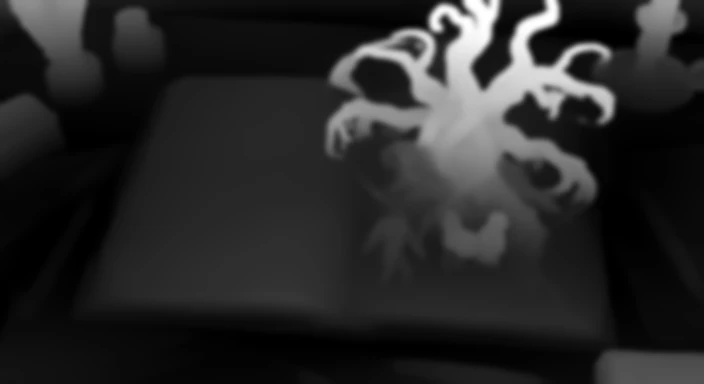
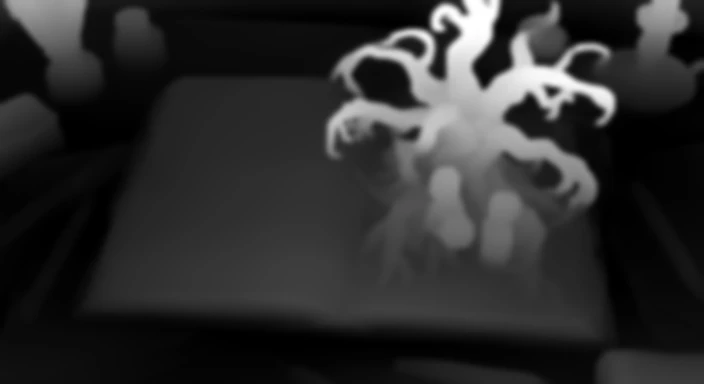
Upside-Down World p14: new laughing picture; stare -> smile -> giggling laugh fit -> calm, gentle branch sway, warm sun glow, dust, text moved under the sketch, 2x upscale
Claude-Session: https://claude.ai/code/session_01BFtifSTdmWYaAK88ECs5PE

diff --git a/books/upside-down-world/sprite.js b/books/upside-down-world/sprite.js
@@ -1,2 +1,2 @@
 /* flying objects drawn over a still page: img = transparent sprite, rs = ball radius in the sprite, path = [x,y,radius] per frame at 24 fps in 1408x768 picture pixels */
-window.SPRITES={p01:{img:"img/p01-ball.webp",size:260,rs:104.5,path:[[951.0,390.0,18.5],[946.4,377.6,21.9],[944.8,373.2,22.6],[941.8,364.8,24.4],[938.6,356.8,26.0],[935.2,349.1,27.6],[931.6,342.1,29.2],[927.9,335.5,30.7],[923.8,329.1,32.0],[919.7,322.8,33.5],[915.7,316.9,34.9],[911.8,311.1,36.2],[907.8,305.5,37.6],[903.9,300.1,38.9],[899.8,295.1,40.2],[895.8,290.0,41.2],[891.4,285.1,42.2],[887.2,280.3,43.2],[882.9,275.7,44.3],[878.9,271.0,45.3],[874.9,266.6,46.5],[871.2,262.1,47.8],[867.5,257.7,49.1],[863.9,253.4,50.5],[860.2,249.1,51.8],[856.2,244.7,53.0],[852.4,240.6,54.2],[848.3,236.6,55.3],[843.9,232.6,56.5],[839.6,228.6,57.6],[835.4,224.8,58.6],[830.9,221.0,59.7],[826.3,217.3,60.7],[821.9,213.7,61.5],[817.4,210.1,62.4],[812.8,206.8,63.6],[808.1,203.5,64.5],[803.4,200.3,65.6],[798.8,196.9,66.6],[794.1,193.7,67.7],[789.4,190.4,68.8],[784.8,187.1,70.0],[780.1,183.8,71.3],[775.3,180.6,72.7],[770.3,177.4,74.1],[765.1,174.3,75.5],[759.8,171.1,77.0],[754.7,167.8,78.5],[749.2,164.6,80.0],[743.7,161.4,81.3],[738.1,157.9,82.7],[732.6,154.6,84.0]]},p02:{img:"img/p01-ball.webp",size:260,rs:104.5,kind:"lob",from:[1008,538,9],to:[1040,212,4.2],apex:170,rig:[{img:"img/p02-leg.webp",box:[960,515,60,60],pivot:[987,531],depth:[988,545],motion:"leg"}]},p03:{rig:[{img:"img/p03-leo.webp",box:[906,462,52,56],pivot:[932,504],depth:[932,495],motion:"headL"},{img:"img/p03-sam.webp",box:[946,475,52,56],pivot:[972,515],depth:[972,505],motion:"headS"}]},p03s:{img:"img/p01-ball.webp",size:260,rs:104.5,kind:"hops",ground:true,rest:1.6,start:[920.3,488.6,14.5],du:[1.25,.42,.3],grow:.5,bend:-62,hops:[[896,197,9.5,175],[892,187,8.5,15],[879,181,7.5,6]],to:[879,181,7.5]},p03t:{rig:[{img:"img/p03-turn.webp",box:[888,468,114,140],pivot:[945,538],depth:[945,540],motion:"turn"}]},p05p:{rig:[{img:"img/p05-point.webp",box:[884,452,118,156],pivot:[943,530],depth:[943,540],motion:"point2"}]},p06k:{rig:[{img:"img/p06-k0.webp",box:[878,423,80,114],pivot:[918.4,478.3],depth:[918.4,508.3],motion:"kf0"},{img:"img/p06-k1.webp",box:[866,417,97,111],pivot:[915.3,473.5],depth:[915.3,503.5],motion:"kf1"},{img:"img/p06-k2.webp",box:[874,472,99,116],pivot:[921.4,531.8],depth:[921.4,561.8],motion:"kf2"}]},p07k:{rig:[{img:"img/p07-kids.webp",box:[859.6,324.2,83.1,120.1],pivot:[910,404],depth:[910,395],motion:"walk7"}]},p08k:{rig:[{img:"img/p08-k1.webp",box:[750,272,339.5,323],pivot:[920,590],depth:[920,560],motion:"p8a"},{img:"img/p08-k2.webp",box:[781,272,283.5,323],pivot:[920,590],depth:[920,560],motion:"p8b"}]},p09k:{rig:[{img:"img/p09-wave.webp",box:[868,430,152,180],pivot:[944,520],depth:[944,540],motion:"p9"}]},p10k:{rig:[{img:"img/p10-kids.webp",box:[800,350,240,210],pivot:[920,455],depth:[920,470],motion:"stride"},{img:"img/p10-whale.webp",box:[640,30,550,380],pivot:[905,220],depth:[905,220],motion:"flip10"}]},p11k:{rig:[{img:"img/p10-kids.webp",box:[800,350,240,210],pivot:[920,455],depth:[920,470],motion:"stride"},{img:"img/p11-song.webp",box:[23,59,1272,491],pivot:[660,300],depth:[880,180],motion:"song11"}]},p12k:{rig:[{img:"img/p12-k1.webp",box:[810,340,250,260],pivot:[935,470],depth:[935,480],motion:"p12a"},{img:"img/p12-k2.webp",box:[810,340,250,260],pivot:[935,470],depth:[935,480],motion:"p12b"}]},p13k:{rig:[{img:"img/p13-gasp.webp",box:[920,350,140,140],pivot:[990,420],depth:[990,430],motion:"p13"}]}};
+window.SPRITES={p01:{img:"img/p01-ball.webp",size:260,rs:104.5,path:[[951.0,390.0,18.5],[946.4,377.6,21.9],[944.8,373.2,22.6],[941.8,364.8,24.4],[938.6,356.8,26.0],[935.2,349.1,27.6],[931.6,342.1,29.2],[927.9,335.5,30.7],[923.8,329.1,32.0],[919.7,322.8,33.5],[915.7,316.9,34.9],[911.8,311.1,36.2],[907.8,305.5,37.6],[903.9,300.1,38.9],[899.8,295.1,40.2],[895.8,290.0,41.2],[891.4,285.1,42.2],[887.2,280.3,43.2],[882.9,275.7,44.3],[878.9,271.0,45.3],[874.9,266.6,46.5],[871.2,262.1,47.8],[867.5,257.7,49.1],[863.9,253.4,50.5],[860.2,249.1,51.8],[856.2,244.7,53.0],[852.4,240.6,54.2],[848.3,236.6,55.3],[843.9,232.6,56.5],[839.6,228.6,57.6],[835.4,224.8,58.6],[830.9,221.0,59.7],[826.3,217.3,60.7],[821.9,213.7,61.5],[817.4,210.1,62.4],[812.8,206.8,63.6],[808.1,203.5,64.5],[803.4,200.3,65.6],[798.8,196.9,66.6],[794.1,193.7,67.7],[789.4,190.4,68.8],[784.8,187.1,70.0],[780.1,183.8,71.3],[775.3,180.6,72.7],[770.3,177.4,74.1],[765.1,174.3,75.5],[759.8,171.1,77.0],[754.7,167.8,78.5],[749.2,164.6,80.0],[743.7,161.4,81.3],[738.1,157.9,82.7],[732.6,154.6,84.0]]},p02:{img:"img/p01-ball.webp",size:260,rs:104.5,kind:"lob",from:[1008,538,9],to:[1040,212,4.2],apex:170,rig:[{img:"img/p02-leg.webp",box:[960,515,60,60],pivot:[987,531],depth:[988,545],motion:"leg"}]},p03:{rig:[{img:"img/p03-leo.webp",box:[906,462,52,56],pivot:[932,504],depth:[932,495],motion:"headL"},{img:"img/p03-sam.webp",box:[946,475,52,56],pivot:[972,515],depth:[972,505],motion:"headS"}]},p03s:{img:"img/p01-ball.webp",size:260,rs:104.5,kind:"hops",ground:true,rest:1.6,start:[920.3,488.6,14.5],du:[1.25,.42,.3],grow:.5,bend:-62,hops:[[896,197,9.5,175],[892,187,8.5,15],[879,181,7.5,6]],to:[879,181,7.5]},p03t:{rig:[{img:"img/p03-turn.webp",box:[888,468,114,140],pivot:[945,538],depth:[945,540],motion:"turn"}]},p05p:{rig:[{img:"img/p05-point.webp",box:[884,452,118,156],pivot:[943,530],depth:[943,540],motion:"point2"}]},p06k:{rig:[{img:"img/p06-k0.webp",box:[878,423,80,114],pivot:[918.4,478.3],depth:[918.4,508.3],motion:"kf0"},{img:"img/p06-k1.webp",box:[866,417,97,111],pivot:[915.3,473.5],depth:[915.3,503.5],motion:"kf1"},{img:"img/p06-k2.webp",box:[874,472,99,116],pivot:[921.4,531.8],depth:[921.4,561.8],motion:"kf2"}]},p07k:{rig:[{img:"img/p07-kids.webp",box:[859.6,324.2,83.1,120.1],pivot:[910,404],depth:[910,395],motion:"walk7"}]},p08k:{rig:[{img:"img/p08-k1.webp",box:[750,272,339.5,323],pivot:[920,590],depth:[920,560],motion:"p8a"},{img:"img/p08-k2.webp",box:[781,272,283.5,323],pivot:[920,590],depth:[920,560],motion:"p8b"}]},p09k:{rig:[{img:"img/p09-wave.webp",box:[868,430,152,180],pivot:[944,520],depth:[944,540],motion:"p9"}]},p10k:{rig:[{img:"img/p10-kids.webp",box:[800,350,240,210],pivot:[920,455],depth:[920,470],motion:"stride"},{img:"img/p10-whale.webp",box:[640,30,550,380],pivot:[905,220],depth:[905,220],motion:"flip10"}]},p11k:{rig:[{img:"img/p10-kids.webp",box:[800,350,240,210],pivot:[920,455],depth:[920,470],motion:"stride"},{img:"img/p11-song.webp",box:[23,59,1272,491],pivot:[660,300],depth:[880,180],motion:"song11"}]},p12k:{rig:[{img:"img/p12-k1.webp",box:[810,340,250,260],pivot:[935,470],depth:[935,480],motion:"p12a"},{img:"img/p12-k2.webp",box:[810,340,250,260],pivot:[935,470],depth:[935,480],motion:"p12b"}]},p13k:{rig:[{img:"img/p13-gasp.webp",box:[920,350,140,140],pivot:[990,420],depth:[990,430],motion:"p13"}]},p14k:{rig:[{img:"img/p14-k1.webp",box:[850,320,210,220],pivot:[955,430],depth:[955,440],motion:"p14a"},{img:"img/p14-k2.webp",box:[850,320,210,220],pivot:[955,430],depth:[955,440],motion:"p14b"}]}};

diff --git a/books/upside-down-world/index.html b/books/upside-down-world/index.html
@@ -404,6 +404,11 @@ const MOT={
   /* page 13: Sam points at the strange ball and gasps, twice per 14 s cycle */
   p13(tt){const T=14;tt=((tt%T)+T)%T;const on=(s,e)=>tt<s||tt>e+.45?0:tt<s+.4?ease((tt-s)/.4):tt<e?1:1-ease((tt-e)/.45);
     return {dx:0,dy:0,rot:0,sx:1,sy:1,a:Math.max(on(2.5,6),on(9,11.5))};},
+  /* page 14: stare -> nervous smile -> laughing fit (giggles flicker between smile and laugh) -> calm (16 s) */
+  p14(tt,j){const T=16;tt=((tt%T)+T)%T;const on=(s,e,f)=>tt<s||tt>e+f?0:tt<s+f?ease((tt-s)/f):tt<e?1:1-ease((tt-e)/f);
+    if(j===1)return {dx:0,dy:0,rot:0,sx:1,sy:1,a:on(2.5,13.2,.5)};
+    let a=on(5,12,.45);if(tt>6&&tt<11.5)a*=.62+.38*(.5+.5*Math.cos((tt-6)*Math.PI*2/.55));
+    return {dx:0,dy:0,rot:0,sx:1,sy:1,a};},
   hide(tt){const T=16;tt=((tt%T)+T)%T;const S=7.0,E=11.6+.85;return {dx:0,dy:0,rot:0,sx:1,sy:1,a:Math.max(0,Math.min(1,(tt-S)/.12,(E-tt)/.12))};},
   head(tt,dir,lag){const T=16;tt=((tt-lag)%T+T)%T;let k=0;
     if(tt>=.8&&tt<1.9)k=ease((tt-.8)/1.1);else if(tt>=1.9&&tt<4.8)k=1;else if(tt>=4.8&&tt<5.9)k=1-ease((tt-4.8)/1.1);
@@ -414,7 +419,7 @@ function drawRig(c,d,L,now,dt,w,h,t,ps,o){
   const p=L._p,dim=p.fx==='shade'?dimS:0;
   (d.rig||[]).forEach(r=>{if(!r.im||!r.im.complete||!r.im.naturalWidth)return;
     const tt=reduce?0:(now-pageT0)/1000;
-    const M=r.motion==='p13'?MOT.p13(tt):r.motion==='p12a'?MOT.p12(tt,1):r.motion==='p12b'?MOT.p12(tt,2):r.motion==='flip10'?MOT.flip10(tt):r.motion==='stride'?MOT.stride(tt):r.motion==='song11'?MOT.song11(tt):r.motion==='p9'?MOT.p9(tt):r.motion==='p8a'?MOT.p8(tt,1):r.motion==='p8b'?MOT.p8(tt,2):r.motion==='walk7'?MOT.walk7(tt):r.motion&&r.motion.startsWith('kf')?MOT.kf(tt,+r.motion[2]):r.motion==='point2'?MOT.point2(tt):r.motion==='point'?MOT.point(tt):r.motion==='hide'?MOT.hide(tt):r.motion==='turn'?MOT.turn(tt):r.motion==='leg'?MOT.leg(tt):r.motion==='headL'?MOT.head(tt,1,0):MOT.head(tt,-1,.18);
+    const M=r.motion==='p14a'?MOT.p14(tt,1):r.motion==='p14b'?MOT.p14(tt,2):r.motion==='p13'?MOT.p13(tt):r.motion==='p12a'?MOT.p12(tt,1):r.motion==='p12b'?MOT.p12(tt,2):r.motion==='flip10'?MOT.flip10(tt):r.motion==='stride'?MOT.stride(tt):r.motion==='song11'?MOT.song11(tt):r.motion==='p9'?MOT.p9(tt):r.motion==='p8a'?MOT.p8(tt,1):r.motion==='p8b'?MOT.p8(tt,2):r.motion==='walk7'?MOT.walk7(tt):r.motion&&r.motion.startsWith('kf')?MOT.kf(tt,+r.motion[2]):r.motion==='point2'?MOT.point2(tt):r.motion==='point'?MOT.point(tt):r.motion==='hide'?MOT.hide(tt):r.motion==='turn'?MOT.turn(tt):r.motion==='leg'?MOT.leg(tt):r.motion==='headL'?MOT.head(tt,1,0):MOT.head(tt,-1,.18);
     const rl=depthAt(p.img,r.depth[0],r.depth[1]),qx=r.pivot[0]/W,qy=r.pivot[1]/H,s2=shiftAt(qx,qy,rl,t),
       px=(o[0]+(qx-o[0])*curS+s2[0])*w,py=(o[1]+(qy-o[1])*curS+s2[1])*h;
     const sh=sm3(.30,.40,qx)*sm3(.97,.90,qx)*sm3(.95,.85,qy)*rl*(.055*Math.sin(t*1.6+qx*13+qy*6)+.035*Math.sin(t*2.7-qy*17)),f=(1+sh)*(1-dim*.25);

diff --git a/books/upside-down-world/story.js b/books/upside-down-world/story.js
@@ -40,7 +40,7 @@ window.STORY={title:"The Upside-Down World",author:"M. A. Mafodh",pages:[
 {img:"p11",sprite:"p13k",wind:-1.3,swirl:[1093,85,.004],dust:true,box:[305,425,700,600],parts:[
  "\"Where's our ball?\" Sam asked, looking around. Leo spotted it sitting by the tree's trunk. He walked over to pick it up... and stopped.",
  "It wasn't their soccer ball anymore. It was a basketball. Orange and bumpy, with the familiar black lines. Sam came up beside him. \"That's... not our ball.\""]},
-{img:"p12",box:[362,190,628,395],parts:[
+{img:"p12",sprite:"p14k",wind:-1.3,swirl:[1093,85,.004],dust:true,box:[300,418,670,602],parts:[
  "Leo looked from the basketball in his hand to the dark hole under the tree. He started to laugh. It was a nervous, shaky laugh. Sam stared at the ball, then at Leo, and then he started giggling too.",
  "Soon, they were both laughing so hard they could barely stand, a mix of amazement, fear, and pure confusion bubbling out of them.",
  "The End."]}
